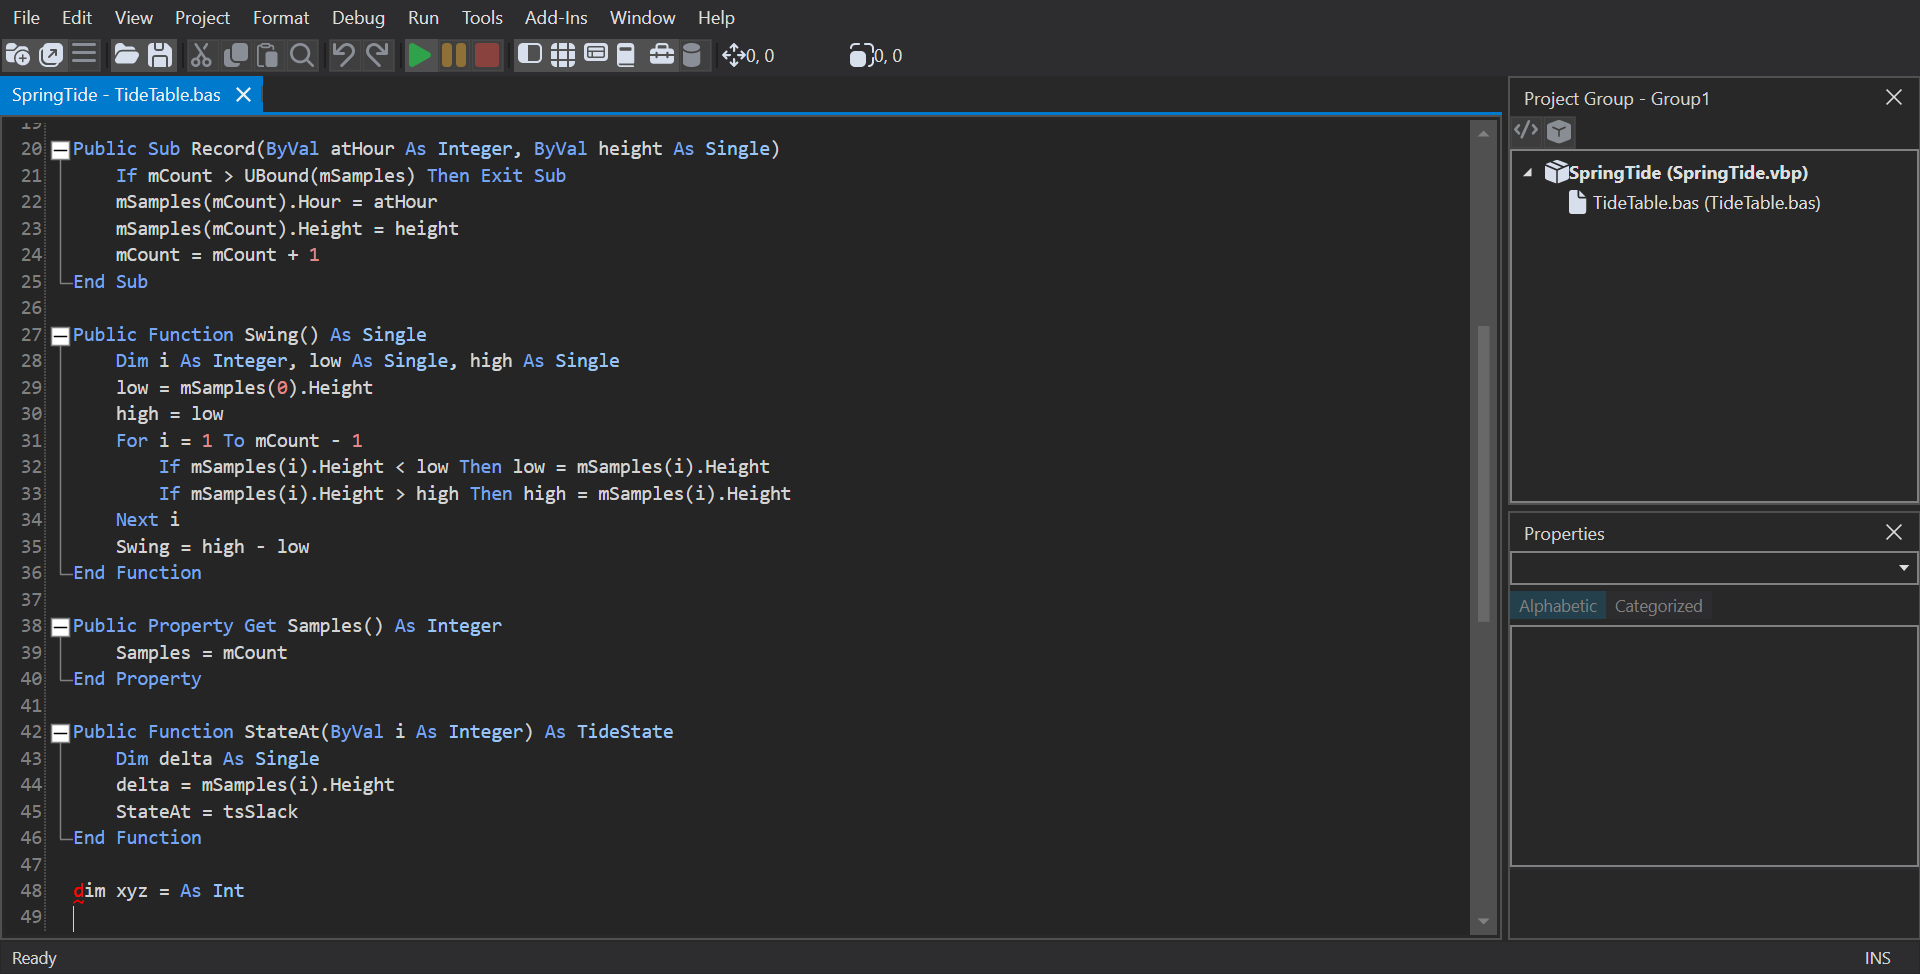
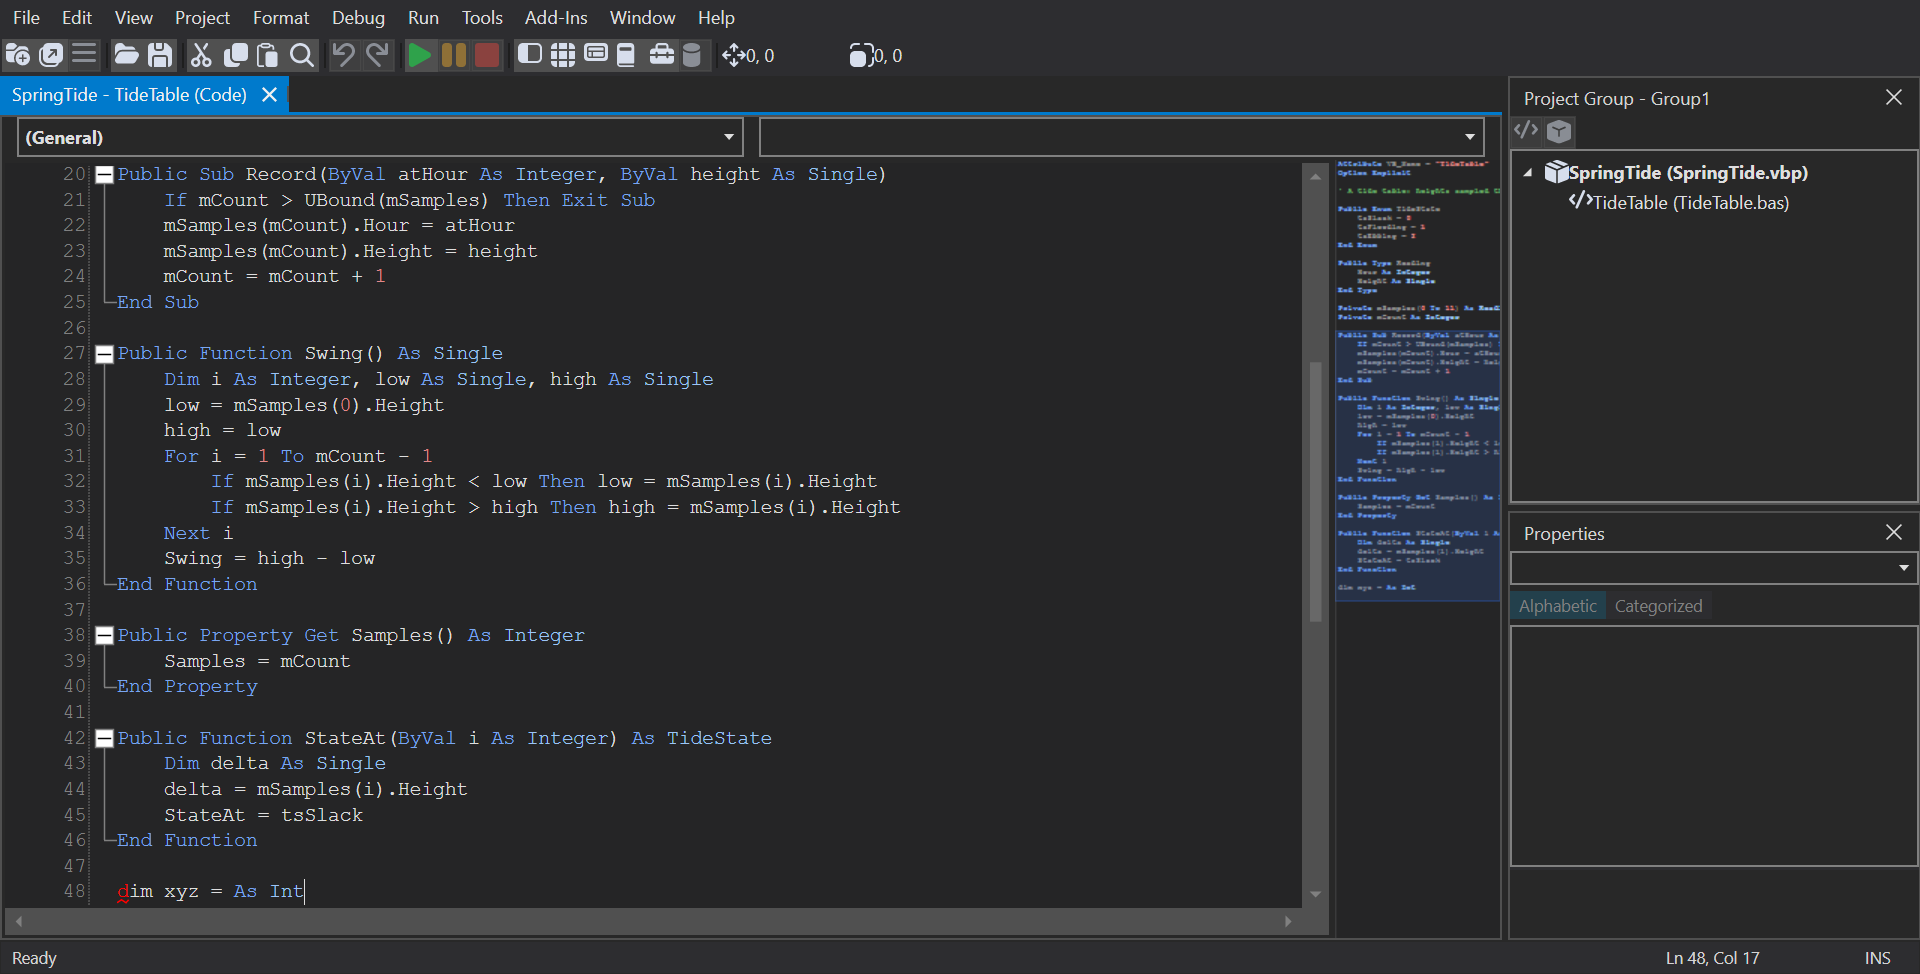
Phase 3 seen running on files VB6 wrote, the first-contact transcript re-recorded, and the spring-tide shot retaken (#273 task 3.22)
Four Template files opened from a scratch project, checked through the
automation tools under Classic and Dark: the whole file in the window,
the header folded and greyed, typing and F9 refused with their reasons,
Replace All leaving the header alone, line numbers from the top of the
file, and a designer move reaching the header without becoming a code
edit. The banner checked in English and Pseudo (LTR). 3.22 stays open for
3.19's AI Chat checks, which need an API key this machine does not have.

Re-recording docs/mcp-first-contact.md found list_lsp_messages'
afterSequence never shows a waiting request answered when given the
highest sequence seen (#961), recorded in mcp-server-gaps.md.

Claude-Session: https://claude.ai/code/session_01DNZMmUS19fTmV4TtHJob4G

diff --git a/docs/mcp-first-contact.md b/docs/mcp-first-contact.md
@@ -15,8 +15,9 @@ is what to fix, in the tool or its description.
 Every reply below was taken from a real session and not written from the record types. A reply
 composed from the author's picture of a tool is exactly what this document exists to test. The session
 was a Debug build started with `--server-port 5123 --newproject` and a fresh `--user-data-dir`. Nothing
-was armed. It was re-recorded whole after the fix for #394 and #430, rather than patched, so every
-reply below comes from one session.
+was armed. It was re-recorded whole on 2026-10-13, when `open_file` began to name what it opened
+([#273](https://github.com/hexide-io/HexIDE/issues/273)), rather than patched, so every reply below comes
+from one session.
 
 `FirstContactTranscriptTests` fails the build when a call shown here could no longer be made as written
 (a tool renamed, a parameter renamed, a required parameter added), or when a reply shows a field no reply
@@ -59,12 +60,12 @@ get_project_info
 ```json
 {
   "projectName": "Project1",
-  "projectPath": "%TEMP%\\hexide_Project1_b0d84acee5354544842dab18a333ed2d\\Project1.vbp",
+  "projectPath": "%TEMP%\\hexide_Project1_4f4566a0701e4f48b83e5793650e6563\\Project1.vbp",
   "forms": ["Form1"],
   "modules": [],
   "relatedDocuments": [],
   "projects": [
-    {"name": "Project1", "path": "%TEMP%\\hexide_Project1_b0d84acee5354544842dab18a333ed2d\\Project1.vbp", "isStartup": true, "forms": ["Form1"], "modules": [], "relatedDocuments": []}
+    {"name": "Project1", "path": "%TEMP%\\hexide_Project1_4f4566a0701e4f48b83e5793650e6563\\Project1.vbp", "isStartup": true, "forms": ["Form1"], "modules": [], "relatedDocuments": []}
   ]
 }
 ```
@@ -81,8 +82,16 @@ open_file {"name": "Form1"}
 ```
 
 ```json
-{"success": true}
+{
+  "success": true,
+  "note": "Active tab: 'Project1 - Form1 (Code)' (code); 2 open. Keyboard focus is in it.",
+  "project": "Project1",
+  "document": "Form1"
+}
 ```
+
+`project` and `document` name what was opened, which matters once a group holds two documents of one
+name. Two tabs are open, not one, because `--newproject` opens the new form's designer first.
 
 ## 4. Ask again
 
@@ -95,46 +104,79 @@ Asked immediately, the handshake was still in flight:
 ```json
 {
   "messages": [
-    {"sequence": 1, "connectionId": "hexide.vb6", "at": "2026-09-22T02:14:59.9239535+00:00", "direction": "Local", "kind": "Lifecycle", "sizeBytes": 0, "detail": "connecting", "hasBody": false},
-    {"sequence": 2, "connectionId": "hexide.vb6", "at": "2026-09-22T02:15:00.8757853+00:00", "direction": "Local", "kind": "Lifecycle", "sizeBytes": 0, "detail": "connected", "hasBody": false},
-    {"sequence": 3, "connectionId": "hexide.vb6", "at": "2026-09-22T02:15:01.0124623+00:00", "direction": "Sent", "kind": "Request", "method": "initialize", "id": "2", "sizeBytes": 588, "hasBody": true}
+    {"sequence": 1, "connectionId": "hexide.vb6", "at": "2026-10-13T13:42:41.8399375+00:00", "direction": "Local", "kind": "Lifecycle", "sizeBytes": 0, "detail": "connecting", "hasBody": false},
+    {"sequence": 2, "connectionId": "hexide.vb6", "at": "2026-10-13T13:42:41.8985645+00:00", "direction": "Local", "kind": "Lifecycle", "sizeBytes": 0, "detail": "connected", "hasBody": false},
+    {"sequence": 3, "connectionId": "hexide.vb6", "at": "2026-10-13T13:42:42.0692472+00:00", "direction": "Local", "kind": "Lifecycle", "sizeBytes": 0, "detail": "began waiting for the server's first bytes", "hasBody": false},
+    {"sequence": 4, "connectionId": "hexide.vb6", "at": "2026-10-13T13:42:42.1636280+00:00", "direction": "Sent", "kind": "Request", "method": "initialize", "id": "2", "sizeBytes": 588, "hasBody": true},
+    {"sequence": 5, "connectionId": "hexide.vb6", "at": "2026-10-13T13:42:42.1740952+00:00", "direction": "Local", "kind": "Lifecycle", "sizeBytes": 0, "detail": "began writing 611 bytes to the server", "hasBody": false},
+    {"sequence": 6, "connectionId": "hexide.vb6", "at": "2026-10-13T13:42:42.1789937+00:00", "direction": "Local", "kind": "Lifecycle", "sizeBytes": 0, "detail": "the first 611 bytes reached the server's channel", "hasBody": false}
   ],
-  "matched": 3,
+  "matched": 6,
   "truncated": false,
   "framesDropped": 0
 }
 ```
 
 `initialize` has no `outcome` because it has not been answered yet. The description says an outcome is
-absent while a request is still waiting, so this is not a lost reply. To see only what arrived since,
-pass the last sequence already seen:
+absent while a request is still waiting, so this is not a lost reply. The `Local` rows around it are the
+channel's own account, given once each: when the client began waiting to read, began writing, and saw its
+first bytes reach the server. A message serialized and then held somewhere on its way out would otherwise
+look exactly like a server that received it and said nothing
+([#390](https://github.com/hexide-io/HexIDE/issues/390)).
+
+To see what has changed since, pass a sequence already seen. It has to be one below `initialize`'s:
 
 ```mcp
-list_lsp_messages {"afterSequence": 2}
+list_lsp_messages {"afterSequence": 3}
 ```
 
-The first time this was asked, the server had still not answered and the reply was the same single
-row. Asked again a moment later:
+Asked a moment later:
 
 ```json
 {
   "messages": [
-    {"sequence": 3, "connectionId": "hexide.vb6", "at": "2026-09-22T02:15:01.0124623+00:00", "direction": "Sent", "kind": "Request", "method": "initialize", "id": "2", "sizeBytes": 588, "outcome": "Answered", "elapsedMs": 1998.7228, "hasBody": true, "answerSizeBytes": 508, "answerSequence": 4},
-    {"sequence": 5, "connectionId": "hexide.vb6", "at": "2026-09-22T02:15:03.0244182+00:00", "direction": "Sent", "kind": "Notification", "method": "initialized", "sizeBytes": 52, "hasBody": true},
-    {"sequence": 6, "connectionId": "hexide.vb6", "at": "2026-09-22T02:15:03.0262196+00:00", "direction": "Local", "kind": "Lifecycle", "sizeBytes": 0, "detail": "initialized: HexIDE VB6 Language Server 1.0.0", "hasBody": false},
-    {"sequence": 7, "connectionId": "hexide.vb6", "at": "2026-09-22T02:15:03.0347060+00:00", "direction": "Sent", "kind": "Notification", "method": "textDocument/didOpen", "sizeBytes": 177, "hasBody": true},
-    {"sequence": 8, "connectionId": "hexide.vb6", "at": "2026-09-22T02:15:03.2500755+00:00", "direction": "Received", "kind": "Notification", "method": "textDocument/publishDiagnostics", "sizeBytes": 113, "hasBody": true},
-    {"sequence": 9, "connectionId": "hexide.vb6", "at": "2026-09-22T02:15:03.2885220+00:00", "direction": "Sent", "kind": "Request", "method": "textDocument/documentSymbol", "id": "3", "sizeBytes": 116, "outcome": "Answered", "elapsedMs": 2.6423, "hasBody": true, "answerSizeBytes": 222, "answerSequence": 10},
-    {"sequence": 11, "connectionId": "hexide.vb6", "at": "2026-09-22T02:15:03.5457697+00:00", "direction": "Sent", "kind": "Request", "method": "textDocument/foldingRange", "id": "4", "sizeBytes": 114, "outcome": "Answered", "elapsedMs": 1.6365, "hasBody": true, "answerSizeBytes": 63}
+    {"sequence": 4, "connectionId": "hexide.vb6", "at": "2026-10-13T13:42:42.1636280+00:00", "direction": "Sent", "kind": "Request", "method": "initialize", "id": "2", "sizeBytes": 588, "outcome": "Answered", "elapsedMs": 1603.9062, "hasBody": true, "answerSizeBytes": 508, "answerSequence": 8},
+    {"sequence": 5, "connectionId": "hexide.vb6", "at": "2026-10-13T13:42:42.1740952+00:00", "direction": "Local", "kind": "Lifecycle", "sizeBytes": 0, "detail": "began writing 611 bytes to the server", "hasBody": false},
+    {"sequence": 6, "connectionId": "hexide.vb6", "at": "2026-10-13T13:42:42.1789937+00:00", "direction": "Local", "kind": "Lifecycle", "sizeBytes": 0, "detail": "the first 611 bytes reached the server's channel", "hasBody": false},
+    {"sequence": 7, "connectionId": "hexide.vb6", "at": "2026-10-13T13:42:43.7186577+00:00", "direction": "Local", "kind": "Lifecycle", "sizeBytes": 0, "detail": "the first 531 bytes arrived from the server", "hasBody": false},
+    {"sequence": 9, "connectionId": "hexide.vb6", "at": "2026-10-13T13:42:43.8166847+00:00", "direction": "Sent", "kind": "Notification", "method": "initialized", "sizeBytes": 52, "hasBody": true},
+    {"sequence": 10, "connectionId": "hexide.vb6", "at": "2026-10-13T13:42:43.8455029+00:00", "direction": "Local", "kind": "Lifecycle", "sizeBytes": 0, "detail": "initialized: HexIDE VB6 Language Server 1.0.0", "hasBody": false},
+    {"sequence": 11, "connectionId": "hexide.vb6", "at": "2026-10-13T13:42:43.9194682+00:00", "direction": "Sent", "kind": "Notification", "method": "textDocument/didOpen", "sizeBytes": 481, "hasBody": true},
+    {"sequence": 12, "connectionId": "hexide.vb6", "at": "2026-10-13T13:42:44.4564030+00:00", "direction": "Sent", "kind": "Request", "method": "textDocument/foldingRange", "id": "3", "sizeBytes": 203, "outcome": "Answered", "elapsedMs": 834.5468, "hasBody": true, "answerSizeBytes": 64, "answerSequence": 14},
+    {"sequence": 13, "connectionId": "hexide.vb6", "at": "2026-10-13T13:42:45.1392468+00:00", "direction": "Received", "kind": "Notification", "method": "textDocument/publishDiagnostics", "sizeBytes": 202, "hasBody": true},
+    {"sequence": 15, "connectionId": "hexide.vb6", "at": "2026-10-13T13:42:45.6206673+00:00", "direction": "Sent", "kind": "Request", "method": "textDocument/documentSymbol", "id": "4", "sizeBytes": 205, "outcome": "Answered", "elapsedMs": 89.6947, "hasBody": true, "answerSizeBytes": 223}
   ],
-  "matched": 7,
+  "matched": 10,
   "truncated": false,
   "framesDropped": 0
 }
 ```
 
-`afterSequence` returned sequence 3 again. The request's row was completed by its reply, so it came
-back with `outcome` and `answerSequence` filled in, which is the change a poller needs to see.
+`initialize`'s row came back completed by its reply, with `outcome` and `answerSequence` filled in. It came
+back because 4 is above the 3 passed. Polled with the highest sequence already seen, as the description
+advises, a request that was waiting never comes back answered:
+
+```mcp
+list_lsp_messages {"afterSequence": 6, "limit": 3}
+```
+
+```json
+{
+  "messages": [
+    {"sequence": 12, "connectionId": "hexide.vb6", "at": "2026-10-13T13:42:44.4564030+00:00", "direction": "Sent", "kind": "Request", "method": "textDocument/foldingRange", "id": "3", "sizeBytes": 203, "outcome": "Answered", "elapsedMs": 834.5468, "hasBody": true, "answerSizeBytes": 64, "answerSequence": 14},
+    {"sequence": 13, "connectionId": "hexide.vb6", "at": "2026-10-13T13:42:45.1392468+00:00", "direction": "Received", "kind": "Notification", "method": "textDocument/publishDiagnostics", "sizeBytes": 202, "hasBody": true},
+    {"sequence": 15, "connectionId": "hexide.vb6", "at": "2026-10-13T13:42:45.6206673+00:00", "direction": "Sent", "kind": "Request", "method": "textDocument/documentSymbol", "id": "4", "sizeBytes": 205, "outcome": "Answered", "elapsedMs": 89.6947, "hasBody": true, "answerSizeBytes": 223}
+  ],
+  "matched": 7,
+  "truncated": true,
+  "framesDropped": 0
+}
+```
+
+Seven rows came after 6, and `initialize` was not one of them. That is a defect in the tool, not in the
+caller: the reply that completed it used up sequence 8, but the filter reads only the row's own sequence
+([#961](https://github.com/hexide-io/HexIDE/issues/961)). Until it is fixed, pass a sequence below the
+oldest request still waiting.
 
 There is no `Unconsumed` row, because this client uses everything the bundled server advertises. A
 server that offers something the client does not use gets one here, between `initialized` and the first
@@ -142,23 +184,23 @@ document.
 
 ## 5. Read what the server advertised
 
-The `initialize` row carries `answerSequence` 4. That number is how the reply is read, because a reply
+The `initialize` row carries `answerSequence` 8. That number is how the reply is read, because a reply
 has no row of its own:
 
 ```mcp
-get_lsp_message {"connectionId": "hexide.vb6", "sequence": 4}
+get_lsp_message {"connectionId": "hexide.vb6", "sequence": 8}
 ```
 
 ```json
 {
-  "sequence": 4,
+  "sequence": 8,
   "connectionId": "hexide.vb6",
   "method": "initialize",
   "trueLength": 508,
   "head": "{\"id\":2,\"result\":{\"capabilities\":{\"textDocumentSync\":{\"openClose\":true,\"change\":1},\"completionProvider\":{\"resolveProvider\":false},\"hoverProvider\":true,\"signatureHelpProvider\":{\"triggerCharacters\":[\"(\",\",\"]},\"definitionProvider\":true,\"documentHighlightProvider\":true,\"documentSymbolProvider\":true,\"documentFormattingProvider\":true,\"renameProvider\":true,\"foldingRangeProvider\":true,\"experimental\":{\"vbBuiltinSymbols\":true}},\"serverInfo\":{\"name\":\"HexIDE VB6 Language Server\",\"version\":\"1.0.0\"}},\"jsonrpc\":\"2.0\"}",
   "truncated": false,
   "isAnswer": true,
-  "answerTo": 3
+  "answerTo": 4
 }
 ```
 
@@ -169,7 +211,8 @@ opening is always kept.
 
 | Looks like | Is |
 |---|---|
-| Sequence numbers skip 4 and 10 | Not a loss. A reply consumes a sequence number and completes its request's row instead of adding one. `framesDropped` is the only report of real loss. |
-| The foldingRange request is `Answered` with `answerSizeBytes` but no `answerSequence` | Not a loss. Its reply's body was not retained, since nothing was armed and the opening allowance was spent. A row with `answerSequence` can always be read; one without it cannot. |
+| Sequence numbers skip 8 and 14 | Not a loss. A reply consumes a sequence number and completes its request's row instead of adding one. `framesDropped` is the only report of real loss. |
+| The documentSymbol request is `Answered` with `answerSizeBytes` but no `answerSequence` | Not a loss. Its reply's body was not retained, since nothing was armed and the opening allowance was spent. A row with `answerSequence` can always be read; one without it cannot. |
 | `get_lsp_message` returns the complete body in a field called `head` | Not truncation. `truncated` is false and `trueLength` matches. A body over the per-frame limit comes back as `head` plus `tail`. |
 | `initialize` without an `outcome` on the first ask | Not a lost reply. It was still waiting, and asking again shows it answered. |
+| `initialize` missing from a poll with `afterSequence` 6, though it was answered | A defect: [#961](https://github.com/hexide-io/HexIDE/issues/961). A completed request comes back only for an `afterSequence` below its own row. |

diff --git a/openspec/changes/2026-09-19-name-a-document-by-where-it-lives/tasks.md b/openspec/changes/2026-09-19-name-a-document-by-where-it-lives/tasks.md
@@ -1680,6 +1680,44 @@
   Refresh `docs/mcp-first-contact.md`'s transcript from that run: its `open_file` reply still reads
   `{"success": true}`, where the tool now returns `project`, `document` and a `note` too, and
   `FirstContactTranscriptTests` checks only that the fields it shows still exist.
+  — **Seen running on 2026-10-13**, a Debug build of 5541621 on port 5123. Everything below is done except
+  3.19's AI Chat checks, which need a model to answer and so an API key, and none is configured on this machine.
+  Four files VB6 wrote, from the Template tree under `$HEXIDE_ROUNDTRIP_CORPUS`, were copied into a scratch
+  project: `Log in Dialog.frm`, `Dialog.frm`, `Data Source.cls` and `Registry Access.bas`, with
+  `About Dialog.frm` and no `.frx` for the banner. Every call went through the automation tools.
+  - *Whole file.* `get_file_content {"name":"clsDataSource"}`, not open, is the file, header first, with
+    `hasUnsavedChanges` false. `inspect_element` on each code window reads 99 / 29 / 238 / 44 lines, and
+    `BufferBody` starts at `Attribute VB_Name` for a form.
+  - *Folded and greyed*, snapshotted under Classic and then Dark after a live switch through Options. frmLogin
+    shows one grey `VERSION 5.00` row, then 74. clsDataSource shows `VERSION 1.0 CLASS`, then 14. RegKeys has
+    line 1 grey with no fold. Dialog is folded, then 42. Expanded, frmLogin is grey to 73 and in syntax colours
+    from 74, and Dialog under Dark is grey through 41.
+  - *Typing refused, saying why.* With the caret at offset 0, `type_text`, `press_key` Delete and `press_key`
+    Enter are each refused, and the refusal names offset 2165, line 74. A person typing is refused silently
+    (design.md, row 345); the banner gives the reason for a file held read-only as a whole. In frmAbout, held
+    read-only as a whole, `type_text` and `press_key` Enter are refused with "this file will not be saved … (it
+    references companion binary content …)", the 3.20 review's fix seen working.
+  - *F9 refused, saying why.* F9 on line 1, by `press_key` and by `invoke_menu_item {"path":"Debug/Toggle
+    Breakpoint"}`, sets nothing, and the status bar reads "Line 1 is part of this file's header …". As a
+    control, F9 on line 81 gives `get_breakpoints` [81] and a dot on 81. `set_breakpoints {"lines":[42]}` is
+    refused: "its code starts at 74". On clsDataSource, line 1 is refused and line 14 gives [14].
+  - *Replace All.* `txtPassword` → `txtPwd`, whole word, makes 2 replacements, both in the code. The header's
+    `Begin VB.TextBox txtPassword` is untouched. `ClientHeight`, which is only in the header, is "not found",
+    with no word of why (#705). One Ctrl+Z restores the file, and `hasUnsavedChanges` returns to false.
+  - *Margin and status bar.* Caret at offset 2165 reads `Ln 74, Col 1`; at 2320, `Ln 81, Col 5`; on
+    clsDataSource, `Ln 14`. The margins number the whole file in every snapshot.
+  - *A designer move with the code window open.* A comment typed on Dialog's line 42, then
+    `move_control {"formName":"Dialog","controlName":"OKButton","left":300}`. The code window's header reads
+    `Left = 4500` and the comment is still there. `Edit/Undo` in the code window takes the comment and leaves
+    4500. Saved with format-on-save off, the file differs from the template on that one line alone.
+  - *The banner*, on frmAbout: "This file will not be saved — …", in English, and bracketed under Pseudo (LTR).
+  - *The first-contact transcript* was re-recorded whole from a fresh session. That found
+    `list_lsp_messages`' `afterSequence` never shows a request answered when given the highest sequence seen
+    (#961, recorded in mcp-server-gaps.md). The spring-tide screenshot was retaken, against the server and commit its README names.
+  - *Found and filed, outside this change:* the status bar's "Ln x, Col y" and INS are hard-coded English
+    (#960).
+  - *Not done: 3.19's AI Chat checks.* They need an API key (`HEXIDE_AI_API_KEY`, `ANTHROPIC_API_KEY` or
+    `OPENAI_API_KEY`), and none is set here.
 
 ## 4. Member attributes
 

diff --git a/docs/mcp-server-gaps.md b/docs/mcp-server-gaps.md
@@ -741,3 +741,29 @@ at launch.
 
 **Suggested fix.** An `interact` action that opens a control's context menu, or `invoke_command` falling back to a
 public parameterless method, listed by `inspect_element`. [#836](https://github.com/hexide-io/HexIDE/issues/836).
+
+## Polling `list_lsp_messages` with the highest sequence seen never shows a waiting request answered
+
+**Symptom.** While re-recording [`mcp-first-contact.md`](mcp-first-contact.md) for #273 on 2026-10-13, in a fresh
+`--newproject` session, a request seen waiting never came back answered when polled as the description advises:
+
+```
+open_file {"name":"Form1"}
+list_lsp_messages {}
+→ six rows; sequence 4 is initialize, with no outcome; 6 is the highest
+list_lsp_messages {"afterSequence":6,"limit":3}
+→ rows 12, 13, 15 ("matched":7); initialize is not among them
+list_lsp_messages {"afterSequence":3}
+→ row 4 comes back "outcome":"Answered", "answerSequence":8
+```
+
+The description says to pass "the highest one already seen to poll for what is new". A reply does not add a row:
+it completes its request's row and uses up a sequence. That row's sequence is below the one a poller passes, so
+the filter (`CaptureQueries`, `envelope.Sequence <= after`) drops it. The poller sees what followed the request
+and never sees the request answered.
+
+**Workaround.** Pass a sequence below the oldest request still waiting, and read each request's row again.
+
+**Suggested fix.** Match a row that was completed after `afterSequence` as well as one recorded after it, keyed
+on the sequence its reply consumed, which exists whether or not the body was kept. Say in the description that
+a completed request comes back on its own row. [#961](https://github.com/hexide-io/HexIDE/issues/961).

diff --git a/demo/spring-tide/README.md b/demo/spring-tide/README.md
@@ -127,7 +127,8 @@ HexIDE widens a zero-width range to a single character so it can be seen at all.
 ## Against RDCore's current `main`
 
 Measured on 2026-10-05 against RDCore `a9a4918`, published locally and attached through this profile. The
-screenshot predates it.
+screenshot is not from it: it was taken on 2026-10-13 against `d1c04b5`, with the code window holding the whole
+file ([#273](https://github.com/hexide-io/HexIDE/issues/273)).
 
 **Folds follow your edits now, and the squiggle may not.** RDCore receives the text of an opened document,
 and the change after each edit, so its folds track what you type. Its diagnostics stop. Line 17,
